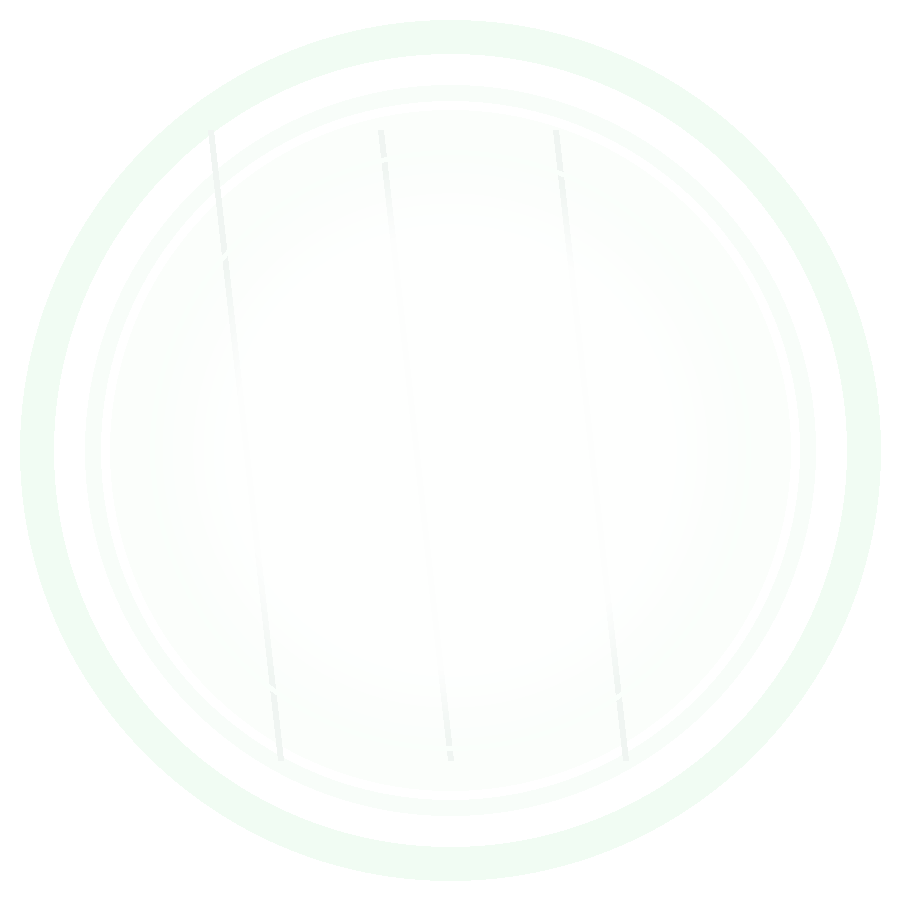
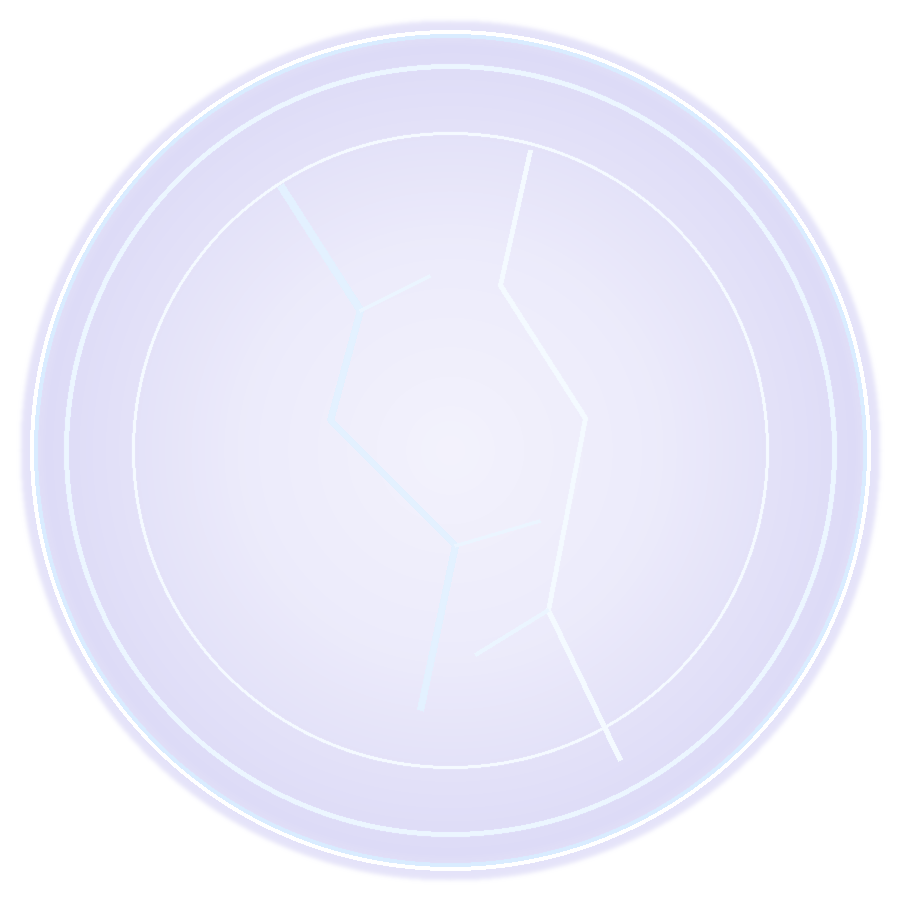
Refine v26 lens stage visuals

diff --git a/htmlDemo简单互动玩法/宝石鉴定html_v26RealAsset版.html b/htmlDemo简单互动玩法/宝石鉴定html_v26RealAsset版.html
@@ -1417,6 +1417,47 @@
         transition:filter .2s ease, transform .28s ease;
         z-index:3;
     }
+    .gem-cushion{
+        position:absolute;
+        left:50%;
+        top:88%;
+        width:116%;
+        height:44%;
+        border-radius:50%;
+        transform:translate(-50%, -50%) scale(var(--cushion-scale, 1));
+        transform-origin:center;
+        z-index:0;
+        pointer-events:none;
+        background:
+            radial-gradient(ellipse at 50% 35%, rgba(255,239,170,.88) 0 9%, rgba(221,171,69,.72) 24%, rgba(84,58,28,.36) 48%, transparent 69%),
+            radial-gradient(ellipse at 50% 56%, rgba(20,56,43,.96), rgba(7,30,25,.72) 64%, transparent 78%);
+        box-shadow:
+            0 26px 42px rgba(0,0,0,.42),
+            inset 0 0 0 5px rgba(238,190,86,.64),
+            inset 0 0 0 13px rgba(5,31,25,.52),
+            inset 0 0 26px rgba(255,232,151,.26);
+        opacity:1;
+        transition:transform .35s ease, opacity .24s ease, filter .24s ease;
+    }
+    .gem-cushion::before{
+        content:"";
+        position:absolute;
+        inset:24% 13% 18%;
+        border-radius:50%;
+        background:radial-gradient(ellipse at 50% 52%, rgba(57,129,88,.98), rgba(13,55,42,.96) 61%, rgba(5,22,18,.9));
+        box-shadow:inset 0 0 0 3px rgba(255,224,142,.44), inset 0 11px 20px rgba(255,245,192,.18);
+    }
+    .gem-cushion::after{
+        content:"";
+        position:absolute;
+        left:20%;
+        right:20%;
+        top:23%;
+        height:16%;
+        border-radius:50%;
+        background:linear-gradient(90deg, transparent, rgba(255,244,190,.55), transparent);
+        filter:blur(2px);
+    }
     .gem3d.gem-enter{
         animation:gemEnter .66s cubic-bezier(.16,.88,.24,1.08) both;
     }
@@ -1449,6 +1490,7 @@
     }
     .gem-core{
         inset:14px;
+        z-index:1;
         border-radius:22px;
         clip-path:polygon(42% 0, 82% 10%, 100% 44%, 88% 82%, 48% 100%, 14% 88%, 0 48%, 16% 12%);
         box-shadow:inset -18px -24px 38px rgba(0,0,0,.18), inset 14px 16px 24px rgba(255,255,255,.32);
@@ -1517,6 +1559,15 @@
     .gem3d.has-stage-image.visual-cleaned .gem-core{
         --gem-scale:1.96;
         filter:drop-shadow(0 0 24px rgba(255,245,190,.48)) !important;
+    }
+    .gem3d.has-stage-image.visual-raw .gem-cushion{ --cushion-scale:1.12; }
+    .gem3d.has-stage-image.visual-cut .gem-cushion,
+    .gem3d.has-stage-image.visual-cracked .gem-cushion{ --cushion-scale:1.22; }
+    .gem3d.has-stage-image.visual-repaired .gem-cushion{ --cushion-scale:1.3; }
+    .gem3d.has-stage-image.visual-shaped .gem-cushion{ --cushion-scale:1.38; }
+    .gem3d.has-stage-image.visual-cleaned .gem-cushion{
+        --cushion-scale:1.46;
+        filter:drop-shadow(0 0 20px rgba(255,220,118,.34));
     }
     .gem3d.has-stage-image .gem-core::before{ display:none; }
     .gem-core::before{
@@ -2040,17 +2091,24 @@
     }
     body.v26-real-asset .center-panel{
         background:
-            radial-gradient(circle at 50% 45%, rgba(161,241,218,.34), transparent 46%),
-            linear-gradient(180deg, rgba(247,242,221,.92), rgba(196,232,216,.76));
-        border-color:rgba(188,142,61,.34);
+            radial-gradient(circle at 50% 42%, rgba(66,166,118,.26), transparent 48%),
+            linear-gradient(180deg, rgba(18,62,48,.96), rgba(6,28,24,.98));
+        border-color:rgba(204,163,78,.42);
     }
     body.v26-real-asset .lens-stage{
         background:
-            var(--v26-stage-base) center bottom 4% / min(62%, 720px) auto no-repeat,
-            var(--v26-center-glow) center / 72% auto no-repeat,
-            var(--v26-center-bg) center / cover no-repeat,
-            radial-gradient(circle at 50% 45%, rgba(196,255,232,.46), transparent 39%),
-            linear-gradient(180deg, rgba(220,249,241,.94), rgba(169,227,220,.9));
+            radial-gradient(ellipse at 50% 64%, rgba(219,168,69,.25) 0 18%, transparent 46%),
+            radial-gradient(circle at 50% 44%, rgba(94,222,166,.28), transparent 39%),
+            linear-gradient(90deg, rgba(255,226,128,.08), transparent 24%, transparent 76%, rgba(50,145,108,.12)),
+            linear-gradient(180deg, rgba(23,77,58,.98), rgba(7,35,30,.98));
+        border-color:rgba(207,166,81,.46);
+    }
+    body.v26-real-asset .idle-copy{
+        color:rgba(255,246,210,.84);
+        text-shadow:0 2px 8px rgba(0,0,0,.36);
+    }
+    body.v26-real-asset .idle-copy h2{
+        color:#ffe8a6;
     }
     body.v26-real-asset .lens-viewport{
         width:min(124%, 1320px);
@@ -2340,9 +2398,10 @@
                 <div id="lens-stage" class="lens-stage idle">
                     <div class="idle-copy">
                         <h2>镜片位置 / 核心玩法区域</h2>
-                        <p>拖入素体袋或已知素体后，玩法会在这里直接展开。</p>
+                        <p>从左侧素体选择拖入镜片，开始单颗鉴定。</p>
                     </div>
                     <div id="gem3d" class="gem3d">
+                        <div class="gem-cushion" aria-hidden="true"></div>
                         <div id="gem-core" class="gem-core"></div>
                         <div class="gem-surface"></div>
                     </div>
@@ -2376,7 +2435,7 @@
                 <div id="batch-drop" class="batch-pipe">
                     <div>
                         <h3>批量入口管道</h3>
-                        <p>拖入素体袋，先处理已鉴定类型，再逐个处理初见类型。</p>
+                        <p>整袋处理会连续完成可处理素体。</p>
                     </div>
                 </div>
             </div>
@@ -2488,7 +2547,7 @@ const DEMO_DATA_PACKS = {
     },
     batchKnown:{
         label:"批量已知验收",
-        note:"多种已知素体数量较多，用于验证批量入口和盘子累计。",
+        note:"多种素体数量较多，用于验证批量处理和盘子累计。",
         known:["pearl","garnet","sunstone","obsidian","fluorite","agate","catseye","jadeite"],
         bag:{ pearl:7, agate:2, garnet:5, sunstone:9, catseye:1, jadeite:6, obsidian:3, fluorite:8, malachite:1, turquoise:4, hetian:2, shoushan:1 }
     },
@@ -2814,7 +2873,7 @@ function releaseKnownTypesForBatch(){
             }
         }
     });
-    if(released) addLog(`批量入口依次自动完成 ${released} 颗已知素体。`);
+    if(released) addLog(`批量入口依次自动完成 ${released} 颗可处理素体。`);
     return released;
 }
 function startManualFromBag(){
@@ -3635,7 +3694,7 @@ function setupDragDrop(){
     bindDrop(document.getElementById("batch-drop"), payload=>{
         if(payload && payload.type === "bag") startBatchFromBag();
         else if(payload && payload.type === "known") completeKnownStoneInBatch(payload.id);
-        else toast("批量入口只接受素体袋或已知素体");
+        else toast("批量入口只接受整袋处理或左侧素体");
     });
 }
 function setupCoreMouseControls(){
@@ -3683,7 +3742,7 @@ document.addEventListener("DOMContentLoaded", ()=>{
     document.getElementById("organize-plate-btn").addEventListener("click", organizePlate);
     document.getElementById("data-pack-select").addEventListener("change", e=>applyDataPack(e.target.value));
     document.getElementById("reset-demo-btn").addEventListener("click", resetDemo);
-    addLog("主 UI 已就绪：拖拽素体袋到镜片位置或批量入口。");
+    addLog("主 UI 已就绪：从左侧拖拽素体到镜片位置。");
     renderDataPackOptions();
     renderMain();
 });

diff --git a/htmlDemo简单互动玩法/codex_handoff_宝石鉴定原型.md b/htmlDemo简单互动玩法/codex_handoff_宝石鉴定原型.md
@@ -801,3 +801,27 @@ Q/E 只在这三个工具中循环：
 ?????
 - ?? `.hotspot-repair` ?? `rotate(-45deg)`?
 - v26 ???????????????????????
+# 2026-05-25 00:00 +08:00 Codex 1 号交接补充
+本轮修正 v26 镜片滤镜颜色不可见的问题。
+
+当前状态：
+- `lens_filter_surface_A.png`、`lens_filter_transmit_B.png`、`lens_filter_crack_C.png` 已重新生成。
+- 镜片中心颜色恢复到轻微可见，边缘和识别特征更明显；宝石主体仍然不会被厚色块盖住。
+- `lens_inner_glass_A.png` 保持中心透明、边缘有玻璃感。
+
+后续注意：
+- 如果用户仍觉得滤镜太浅，优先继续提高三张 `lens_filter_*` 的中心 alpha，而不是增加 HTML 上的纯色遮罩。
+# 2026-05-25 00:15 +08:00 Codex 1 号交接补充
+本轮推进 v26 中心舞台美化。
+
+当前状态：
+- 中心宝石背景已改为深金绿工坊色，接近 UI concept A 的整体方向。
+- `#gem3d` 内新增 `.gem-cushion` 座垫层，位于宝石和瑕疵层下方。
+- 座垫会跟随宝石容器的入场、阶段切换、收集移出动画，并按阶段逐步放大。
+- 座垫已二次调整为更宽、更靠下、更厚的金绿椭圆托盘，避免只露出一条细边。
+- v26 空闲提示改为“从左侧素体选择拖入镜片，开始单颗鉴定。”，并增加深色背景下的浅金文字可读性。
+- 座垫位置已继续下移，托盘中心更接近宝石下缘，用于对齐玩家视觉上的宝石落点。
+- 修补水滴已改为简单半透明版本，当前仍通过相对路径随 repo assets 加载。
+
+后续注意：
+- 如果要把座垫升级为图片资产，可以保留 `.gem-cushion` 这个 DOM 入口，只替换 CSS 背景为 `ui_center_stage` 下的新图片。

diff --git a/htmlDemo简单互动玩法/codex_changelist_宝石鉴定v24.md b/htmlDemo简单互动玩法/codex_changelist_宝石鉴定v24.md
@@ -294,3 +294,26 @@
 
 ???
 - v26 ??????? Node REPL `new Function(...)` ?????
+# 2026-05-25 00:00 +08:00 - Codex 1 号
+本轮修正 v26 镜片滤镜颜色过淡的问题。
+
+改动：
+- 重新生成 `ui_lens_frame/lens_filter_surface_A.png`、`lens_filter_transmit_B.png`、`lens_filter_crack_C.png`。
+- 三种镜片中心 alpha 从约 `3` 提升到约 `24-34`，边缘和特征线提升到约 `70`，让滤镜颜色重新可见。
+- `lens_inner_glass_A.png` 保持中心低透明度但恢复边缘玻璃感，避免完全看不到镜片。
+- 更新 `asset-manifest.json` 与 `ui_v26_asset_contact_sheet.png`。
+
+验证：
+- 本轮只改图片素材与 manifest，未改 HTML 脚本。
+# 2026-05-25 00:15 +08:00 - Codex 1 号
+本轮调整 v26 中心宝石背景和底座层。
+
+改动：
+- 将 v26 中心玩法背景从浅米/浅青改成更接近 UI concept A 的深金绿工坊色。
+- 移除原本固定在背景里的底盘感，新增 `.gem-cushion` 宝石座垫层。
+- 座垫放入 `#gem3d` 内部，跟随宝石入场、阶段切换、收集飞出一起缩放移动。
+- 座垫按宝石阶段逐步放大，匹配 raw/cut/repaired/shaped/cleaned 的镜头靠近感。
+- 继续放大并下移座垫，让它在宝石下方形成可见的金绿椭圆托盘，而不是只露出细边。
+- 更新空闲提示和批量入口相关文案，移除过时的“拖入素体袋或已知素体”说法，并增强深色背景下的提示文字可读性。
+- 按画面反馈继续将 `.gem-cushion` 下移，托盘中心更贴近宝石下缘，避免和宝石底部对不齐。
+- `defect_repair_drop_C.png` 改为更简单的半透明水滴图，保留水滴轮廓与单条高光，减少复杂装饰。
